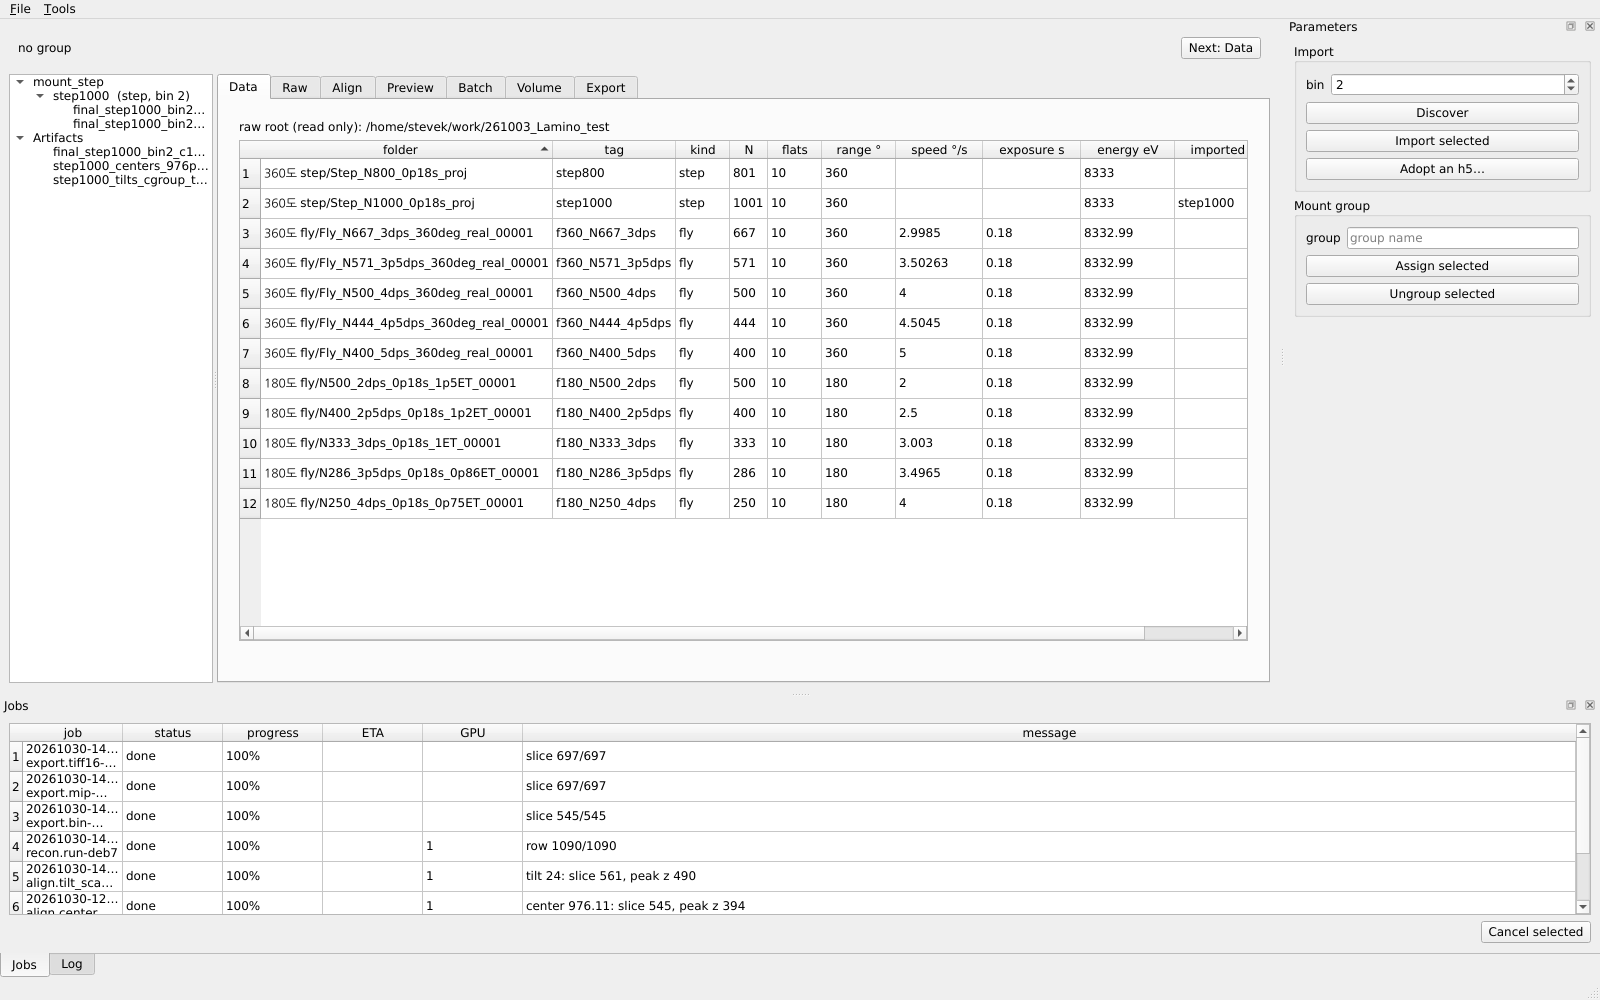
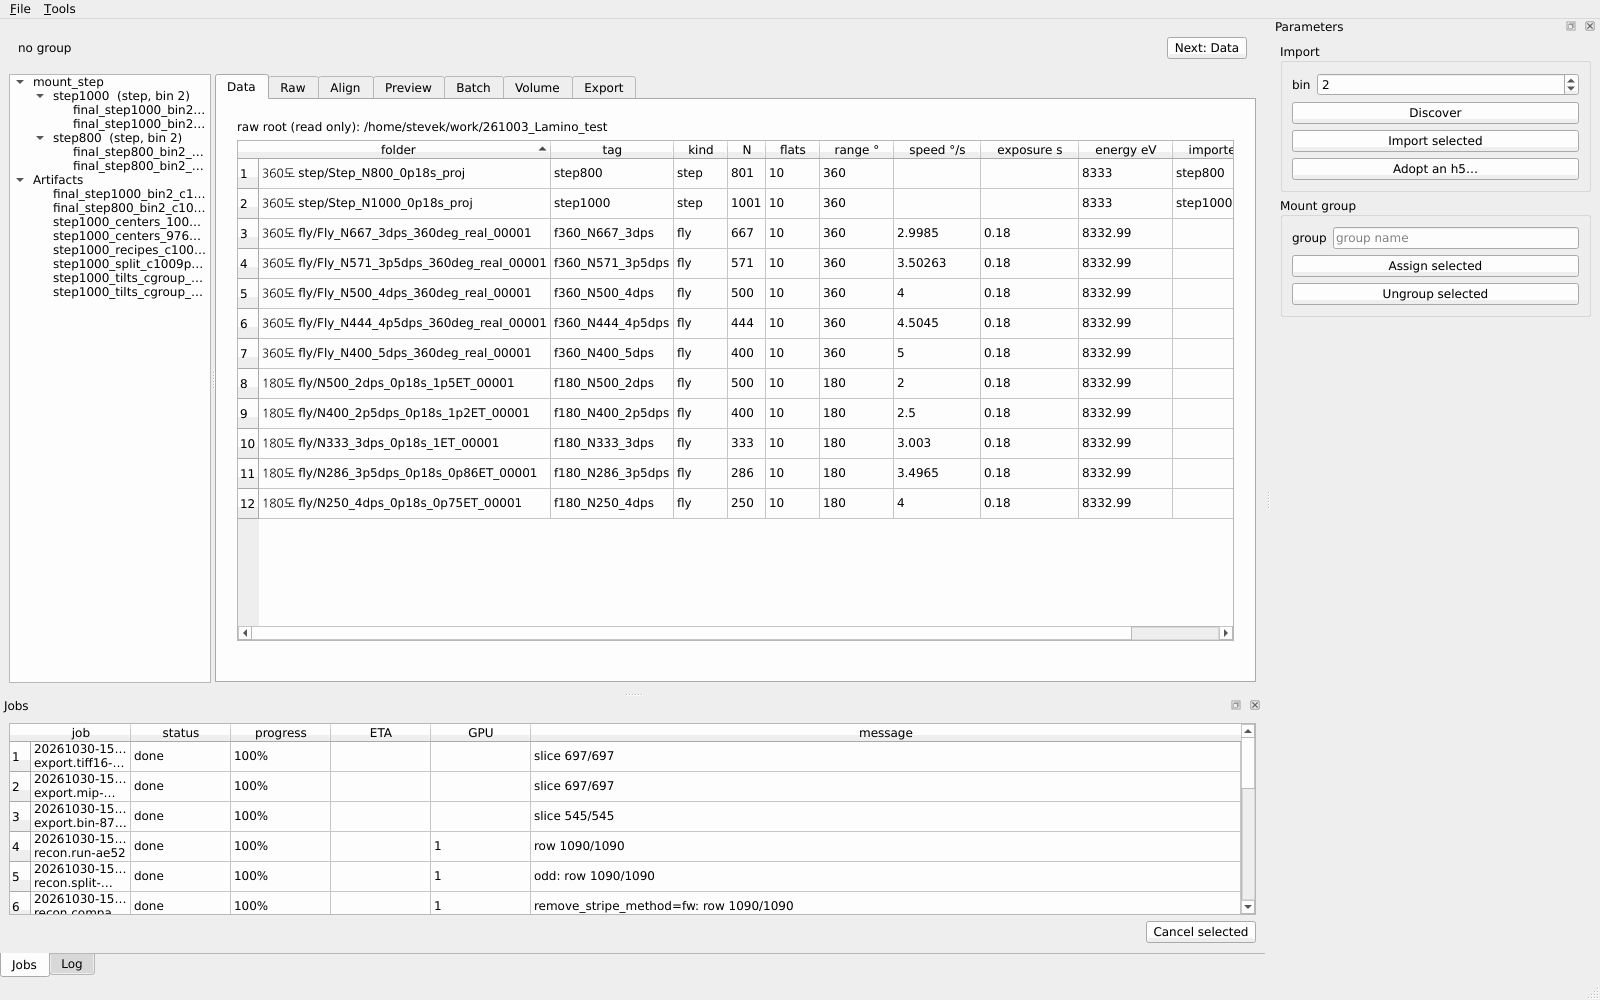
gui: scroll the right column's docks, not grow the window (_fit_column)
Each viewer's layer controls and list, docked under Parameters, asked the
column for its whole content: the window grew past the screen. Each dock
now scrolls, the column takes the window's height, and _fit_column gives
each dock its content's height and the layer list the rest.

diff --git a/python/lamino_pal/gui/window.py b/python/lamino_pal/gui/window.py
@@ -47,6 +47,42 @@ def _hangul_in_graphs() -> None:
     rcParams["font.family"] = ["sans-serif", *(f for f in fams if f in known)]
 
 
+class _Scroll(qt.QScrollArea):
+    """`widget` in a dock of the right column, its height scrolled once the
+    window is too short for it: the column's docks, each as tall as its
+    widget, would make the window grow. Asks for the widget's whole height,
+    not a scroll area's 24 lines at most."""
+
+    # The widget asks for another size.
+    asked = qt.Signal()
+
+    def __init__(self, widget: qt.QWidget):
+        super().__init__(widgetResizable=True, frameShape=qt.QFrame.NoFrame)
+        self.setHorizontalScrollBarPolicy(qt.Qt.ScrollBarAlwaysOff)
+        self.setWidget(widget)
+
+    def sizeHint(self) -> qt.QSize:
+        return self.widget().sizeHint() + qt.QSize(self.verticalScrollBar().sizeHint().width(), 0)
+
+    def minimumSizeHint(self) -> qt.QSize:
+        w = self.widget().minimumSizeHint().width() + self.verticalScrollBar().sizeHint().width()
+        return qt.QSize(w, super().minimumSizeHint().height())
+
+    def want(self) -> int:
+        """Its height showing the widget whole at the width it is given: a
+        wrapped label is taller than at its hint's width."""
+        w = self.widget()
+        h = w.heightForWidth(self.viewport().width()) if w.hasHeightForWidth() else w.sizeHint().height()
+        # A style's frame, as napari's.
+        return h + self.height() - self.viewport().height()
+
+    def eventFilter(self, obj: qt.QObject, event: qt.QEvent) -> bool:
+        # Filtering its widget's events already.
+        if obj is self.widget() and event.type() == qt.QEvent.LayoutRequest:
+            self.asked.emit()
+        return super().eventFilter(obj, event)
+
+
 class MainWindow(qt.QMainWindow):
     # The group, scan or volume in view changed.
     context_changed = qt.Signal()
@@ -70,16 +106,24 @@ class MainWindow(qt.QMainWindow):
         self.jobs.ended.connect(self._job_ended)
         self.layoutLog.addWidget(LogWidget(project))
         self.tabifyDockWidget(self.dockJobs, self.dockLog)
+        # The right column the window's height, the jobs under the tabs only.
+        self.setCorner(qt.Qt.BottomRightCorner, qt.Qt.RightDockWidgetArea)
         self.dockJobs.raise_()
 
         self.tree = ProjectTree(self.treeProject, project)
         self.tree.selected.connect(self._select)
+        # The viewers' layer lists, which take what the column has left.
+        self._lists: set[qt.QDockWidget] = set()
+        # Once the pages, docks and contents changed in one pass are.
+        self._fit = qt.QTimer(self, singleShot=True, interval=0)
+        self._fit.timeout.connect(self._fit_column)
         self.tabs = {}
         for cls in TABS:
             tab = cls(self)
             self.tabs[cls.NAME] = tab
             getattr(self, f"layout{cls.NAME}").addWidget(tab)
-            self.stackParams.addWidget(tab.controls)
+            # Each its own: a stack is as tall as its tallest page.
+            self.stackParams.addWidget(self._scroll(tab.controls))
         self.tabWidget.currentChanged.connect(self._tab_changed)
         self.splitterMain.setSizes([260, 1340])
 
@@ -179,16 +223,47 @@ class MainWindow(qt.QMainWindow):
 
     def _tab_changed(self, i: int) -> None:
         self.stackParams.setCurrentIndex(i)
+        self._fit.start()
+
+    def _fit_column(self) -> None:
+        """The right column's docks as tall as their contents ask, the layer
+        list what is left: Qt keeps a dock's height across pages and takes a
+        shortfall from every dock alike."""
+        self.layout().activate()
+        docks = [
+            d for d in self.findChildren(qt.QDockWidget)
+            if d.isVisible() and self.dockWidgetArea(d) == qt.Qt.RightDockWidgetArea
+        ]
+        lists = [d for d in docks if d in self._lists]
+        if not lists:
+            return
+        want = {}
+        for d in docks:
+            if d not in self._lists:
+                # The page shown, not the stack's tallest.
+                scroll = self.stackParams.currentWidget() if d is self.dockParams else d.widget()
+                want[d] = max(d.height() - scroll.height() + scroll.want(), d.minimumSizeHint().height())
+        left = sum(d.height() for d in docks) - sum(want.values())
+        for d in lists:
+            want[d] = max(left // len(lists), d.minimumSizeHint().height())
+        self.resizeDocks(list(want), list(want.values()), qt.Qt.Vertical)
+
+    def _scroll(self, widget: qt.QWidget) -> _Scroll:
+        scroll = _Scroll(widget)
+        scroll.asked.connect(self._fit.start)
+        return scroll
 
     def attach_docks(self, v, qv) -> None:
         """Viewer `v`'s QtViewer `qv`'s layer controls and list beside the
         parameters, shown while `v` is: a tab or page hides it."""
         docks = (qv.dockLayerControls, qv.dockLayerList)
         for dock in docks:
+            dock.setWidget(self._scroll(dock.widget()))
             self.addDockWidget(qt.Qt.RightDockWidgetArea, dock)
             # Made before it is shown, or as it is: its show follows.
             dock.hide()
-        v.shown.connect(lambda on: [d.setVisible(on) for d in docks])
+        self._lists.add(qv.dockLayerList)
+        v.shown.connect(lambda on: [*(d.setVisible(on) for d in docks), self._fit.start()])
 
     def _job_ended(self, st: JobState) -> None:
         if st.status == "failed":

diff --git a/tests/test_gui.py b/tests/test_gui.py
@@ -811,6 +811,27 @@ def docks(v):
     return [d.isVisible() for d in (v.qt_viewer.dockLayerControls, v.qt_viewer.dockLayerList)]
 
 
+def test_a_viewers_docks_leave_the_window_its_size(app, win):
+    win.resize(1600, 1000)
+    pump(app, 0.2)
+    for name in ("Raw", "Align", "Preview", "Volume", "Batch"):
+        win.show_tab(name)
+        pump(app, 0.2)
+        assert (win.width(), win.height()) == (1600, 1000), name
+
+
+def test_the_right_columns_docks_show_their_contents_whole_and_the_layer_list_the_rest(app, win):
+    win.resize(1600, 1000)
+    win.tabs["Raw"].view.replace("img", np.zeros((8, 8), "f4"))
+    for name in ("Raw", "Align", "Preview", "Volume", "Raw"):
+        win.show_tab(name)
+        pump(app, 0.3)
+        assert win.stackParams.currentWidget().verticalScrollBar().maximum() == 0, name
+    qv = win.tabs["Raw"].view.qt_viewer
+    assert qv.dockLayerControls.widget().verticalScrollBar().maximum() == 0
+    assert qv.dockLayerList.height() > qv.dockLayerList.minimumSizeHint().height()
+
+
 def test_a_viewer_makes_its_canvas_when_first_shown_and_shows_its_docks_while_it_is(app, win):
     at, vt = win.tabs["Align"], win.tabs["Volume"]
     assert not any(v._qt_viewer for t in win.tabs.values() for v in t.viewers)

diff --git a/docs/manual/README.md b/docs/manual/README.md
@@ -32,13 +32,11 @@ lamino-pal-gui --project ~/work/lamino_pal_demo/project.toml
 - **오른쪽 Parameters**: 현재 탭의 입력과 버튼. 이미지 viewer가 있는 탭에서는
   그 아래에 napari의 **layer controls**(선택한 레이어의 도구·contrast·색)와
   **layer list**(레이어 목록, 눈 아이콘으로 표시/숨김, 맨 아래 줄 오른쪽 집
-  아이콘이 Reset view)가 붙는다.
-- **아래 Jobs / Log**: GPU 작업의 진행률·남은 시간·GPU·메시지. 작업을 고르고
-  **Cancel selected**로 취소한다. Log 탭은 실행한 op의 기록이다.
-
-> 주의: viewer가 처음 나타날 때마다 layer controls/list가 붙으면서 창
-> 높이가 커진다(이번 검증에서 1000 → 1313 → 1344 → 1365 px). 창이 화면을
-> 넘으면 창 크기를 직접 줄인다.
+  아이콘이 Reset view)가 붙는다. 이 오른쪽 열은 창 높이 전체를 쓰고, 각 칸은
+  내용만큼 높이를 받으며 남는 높이는 layer list가 갖는다. 창이 낮아 모자라면
+  칸 안에서 스크롤된다.
+- **아래 Jobs / Log**: 탭 아래에 있다. GPU 작업의 진행률·남은 시간·GPU·메시지.
+  작업을 고르고 **Cancel selected**로 취소한다. Log 탭은 실행한 op의 기록이다.
 
 ## 1. Data: 스캔 가져오기와 group 지정
 
